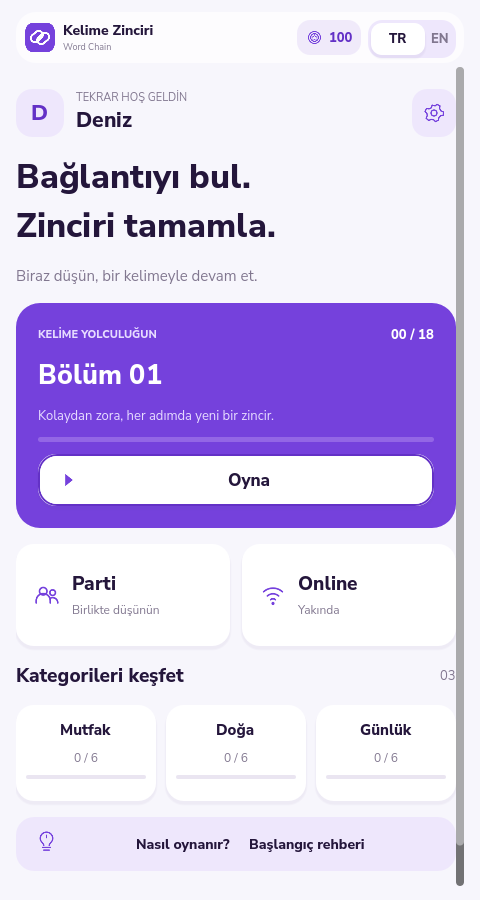
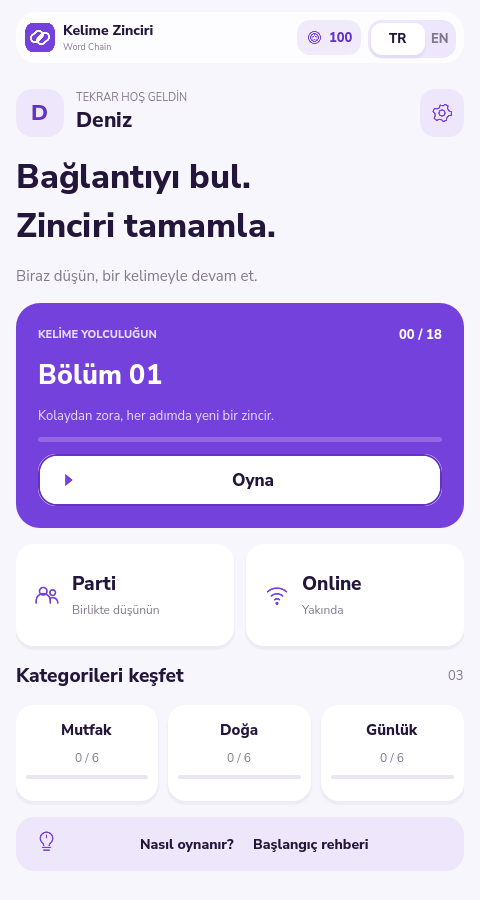
Fix direct letter-slot input and profile navigation
Render profile text in the canvas, preserve native keyboard focus, clip invisible browser input to the field, and remove visible scroll bars. Open the menu after profile creation and make the tutorial optional.

Attach input directly to the active letter boxes. Accept the remaining letters or a full word, validate correct answers automatically, and morph inflected answers into roots in the same row before advancing.

Pass all five local test suites, including 702 headless UI checks and 719 visual checks; verify browser focus and Turkish suffix input.

diff --git a/web/shell.html b/web/shell.html
@@ -3,7 +3,7 @@
 <head>
 <meta charset="utf-8">
 <meta name="viewport" content="width=device-width,initial-scale=1,viewport-fit=cover,interactive-widget=resizes-content">
-<meta name="application-version" content="0.2.0">
+<meta name="application-version" content="0.2.1">
 <meta name="theme-color" content="#7541dc">
 <meta name="description" content="Anlamlı tamlamalar kur, kelimeleri bağla. Kelime Zinciri: Türkçe ve İngilizce kelime oyunu.">
 <title>Kelime Zinciri</title>
@@ -26,30 +26,33 @@ $GODOT_HEAD_INCLUDE
 // The browser owns text composition; Godot receives complete Unicode strings.
 window.KelimeInput = {
  fields: new Map(),
- create(id,onInput,onSubmit,value,placeholder,maxLength){
+ create(id,onInput,onSubmit,value,placeholder,maxLength,onFocus){
   this.remove(id);
   const input=document.createElement('input');
   input.type='text';input.value=value;input.placeholder=placeholder;
   input.maxLength=maxLength||32;input.autocomplete='off';input.spellcheck=false;
   input.autocapitalize='none';input.enterKeyHint='send';input.setAttribute('aria-label',placeholder);
-  input.style.cssText='position:fixed;z-index:5;display:none;min-width:0;border:2px solid transparent;border-radius:16px;background:#fff;color:#24163b;padding:8px 14px;outline:none;font-family:system-ui,sans-serif;box-sizing:border-box;';
-  input.addEventListener('focus',()=>input.style.borderColor='#7541dc');
-  input.addEventListener('blur',()=>input.style.borderColor='transparent');
+  input.style.cssText='position:fixed;z-index:5;display:none;min-width:0;opacity:0;border:2px solid transparent;border-radius:16px;background:#fff;color:#24163b;padding:8px 14px;outline:none;font-family:system-ui,sans-serif;box-sizing:border-box;';
+  input.addEventListener('focus',()=>onFocus(true));
+  input.addEventListener('blur',()=>onFocus(false));
   input.addEventListener('input',()=>{if(!input.composing)onInput(input.value);});
   input.addEventListener('compositionstart',()=>input.composing=true);
   input.addEventListener('compositionend',()=>{input.composing=false;onInput(input.value);});
   input.addEventListener('keydown',e=>{e.stopPropagation();if(e.key==='Enter'&&!e.isComposing){e.preventDefault();onSubmit();}});
   document.body.appendChild(input);this.fields.set(id,input);
  },
- place(id,x,y,w,h,vw,vh){const input=this.fields.get(id);if(!input)return;
+ place(id,x,y,w,h,vw,vh,left,top,right,bottom){const input=this.fields.get(id);if(!input)return;
   const r=document.getElementById('canvas').getBoundingClientRect();
-  Object.assign(input.style,{display:'block',left:(r.left+x/vw*r.width)+'px',top:(r.top+y/vh*r.height)+'px',width:(w/vw*r.width)+'px',height:(h/vh*r.height)+'px',fontSize:Math.max(16,17*r.width/vw)+'px'});
+  Object.assign(input.style,{display:'block',left:(r.left+x/vw*r.width)+'px',top:(r.top+y/vh*r.height)+'px',width:(w/vw*r.width)+'px',height:(h/vh*r.height)+'px',fontSize:Math.max(16,17*r.width/vw)+'px',clipPath:'inset('+(top/vh*r.height)+'px '+(right/vw*r.width)+'px '+(bottom/vh*r.height)+'px '+(left/vw*r.width)+'px)'});
  },
+ focus(id){const input=this.fields.get(id);if(input)input.focus({preventScroll:true});},
  value(id,value){const input=this.fields.get(id);if(input&&input.value!==value)input.value=value;},
  hide(id){const input=this.fields.get(id);if(input)input.style.display='none';},
  remove(id){const input=this.fields.get(id);if(input){input.remove();this.fields.delete(id);}}
 };
-const engine = new Engine($GODOT_CONFIG);
+const engineConfig = $GODOT_CONFIG;
+engineConfig.mainPack = engineConfig.executable + ".pck?v=0.2.1";
+const engine = new Engine(engineConfig);
 const progress = document.getElementById('progress');
 const statusText = document.getElementById('status');
 const retry = document.getElementById('retry');

diff --git a/README.md b/README.md
@@ -1,14 +1,14 @@
 # Kelime Zinciri
 
-Türkçe ve İngilizce, mobil öncelikli bir kelime zinciri oyunu. Mevcut Godot **4.5.2** projesinin **0.2** sürümü: mor/beyaz arayüz, yerel profil, uygulamalı öğretici ve doğal tamlama cevapları.
+Türkçe ve İngilizce, mobil öncelikli bir kelime zinciri oyunu. Mevcut Godot **4.5.2** projesinin **0.2.1** sürümü: mor/beyaz arayüz, yerel profil, uygulamalı öğretici ve doğal tamlama cevapları.
 
 **[Webde oyna](https://ardaisik99.github.io/kelime-bahcesi/)**
 
 ## Nasıl oynanır?
 
-İlk kelime verilir. Önceki kelimeyle anlamlı bir tamlama kuran cevabı telefonunun klavyesiyle tam yazıp Gönder'e dokunursun. Örneğin **SU → BARDAĞI**. Doğru cevap yumuşak bir animasyonla **BARDAK** olur; sonraki cevap **ALTLIĞI**, sonraki kök **ALTLIK** olur. Yanlış veya eksik cevap ilerletmez. Son kelime doğrulanınca bölüm tamamlanır.
+İlk kelime verilir. Harf kutularına dokunup telefonunun klavyesiyle eksik harfleri yazarsın. Doğru cevap tamamlanınca otomatik doğrulanır; ayrı bir cevap alanı yoktur. Örneğin **SU → BARDAĞI**. Doğru cevap yumuşak bir animasyonla **BARDAK** olur; sonraki cevap **ALTLIĞI**, sonraki kök **ALTLIK** olur. Yanlış veya eksik cevap ilerletmez. Son kelime doğrulanınca bölüm tamamlanır.
 
-İlk açılışta oyuncu adı ve dil seçilir. Öğreticide gerçek bir zinciri tamamlayarak oyun öğrenilir. Ayarlar'da ad, dil, ses ve hareket tercihi değiştirilebilir. Öğretici menüden yeniden açılabilir; gerçek altın ve ilerlemeyi etkilemez.
+İlk açılışta oyuncu adı ve dil seçilir. Profil tamamlanınca ana menü açılır. Öğretici, menüdeki Nasıl oynanır düğmesinden isteğe bağlı olarak açılır ve gerçek bir zincirle oyunu öğretir. Ayarlar'da ad, dil, ses ve hareket tercihi değiştirilebilir. Öğretici menüden yeniden açılabilir; gerçek altın ve ilerlemeyi etkilemez.
 
 - Her dilde 18 bölüm; toplam 36, üç kategori. Genel yolculuk ve kategoriler kolaydan zora sıralanır.
 - Dil başına 100 başlangıç altını; ipucu 10, bir rastgele harf 15, ilk bölüm tamamlama ödülü 25. Tekrarda ödül yoktur.

diff --git a/docs/REDESIGN.md b/docs/REDESIGN.md
@@ -1,3 +1,14 @@
+# 0.2.1 etkileşim düzeltmeleri
+
+- Profil kaydı doğrudan ana menüye gider. Oyna doğrudan bölümü açar; öğretici menüden isteğe bağlı başlatılır.
+- Webde HTML input görünmezdir; ad ve yer tutucu Godot tarafından tek katmanda çizilir. Girişin dokunma alanı çizim öncesinde güncellenir ve kaydırma alanına kırpılır; bağımsız kayan metin katmanı yoktur.
+- Oyunda ayrı cevap alanı yoktur. Görünmez native giriş aktif harf kutularının üstüne yerleşir; kullanıcı kutulara dokunur. Verilen ilk harfi tekrar yazmadan kalan harflerle veya tam kelimeyle cevap verebilir. Doğru cevap tamamlanınca otomatik doğrulanır.
+- Ekli kelime, aynı aktif kartın aynı harf satırında animasyonla köke dönüşür; dönüşüm tamamlanınca zincir ilerler. Web klavyesinin odağı cevaplar arasında korunur.
+- Bütün kaydırma çubukları gizlidir; dokunarak veya tekerlekle kaydırma devam eder.
+- Web oyun paketi sürümlü URL ile yüklenir; eski tarayıcı önbelleği yeni giriş köprüsüyle karışmaz.
+
+Aşağıdaki 0.2 tasarımının bu maddelerle değiştirilmeyen kararları korunur.
+
 # Kelime Zinciri — 0.2 tasarım ve davranış kararları
 
 28 Ekim 2026. Mevcut Godot 4.5.2 projesi üzerine uygulanır. Eski OpenCode ajanları veya görev sahipliği kuralları kullanılmaz.

diff --git a/docs/TESTING.md b/docs/TESTING.md
@@ -1,3 +1,11 @@
+# 0.2.1 güncel kabul kontrolü
+
+Profil → ana menü → Oyna geçişi; ayrı cevap alanının yokluğu; harf kutularına bağlı native giriş; sabit ilk harfi tekrar yazmadan otomatik doğrulama; aynı aktif kartta ve aynı kutu satırında BARDAĞI → BARDAK dönüşümü; bütün ekranlarda gizli kaydırma çubukları kontrol edilir. Webde gerçek dokunma/klavye odağı cevaplar arasında korunur. Görünür profil metni artık ayrı bir DOM katmanında değildir.
+
+Güncel gerçek pencere UI koşumu: **719 kontrol geçti**, hata ve kaynak sızıntısı yok. Başsız UI koşumu: **702 kontrol geçti**. Tam `-IncludeUI -Strict` koşumu: **5 paket, 0 hata, 0 atlama**. Fiziksel telefon testi sınırı devam eder.
+
+Önceki sürümün test geçmişi aşağıda korunur.
+
 # 0.2 güncel doğrulama — 28 Ekim 2026
 
 Godot 4.5.2, Windows, Compatibility renderer. Aşağıdaki eski sürüm kanıtları tarihçe olarak korunur.
